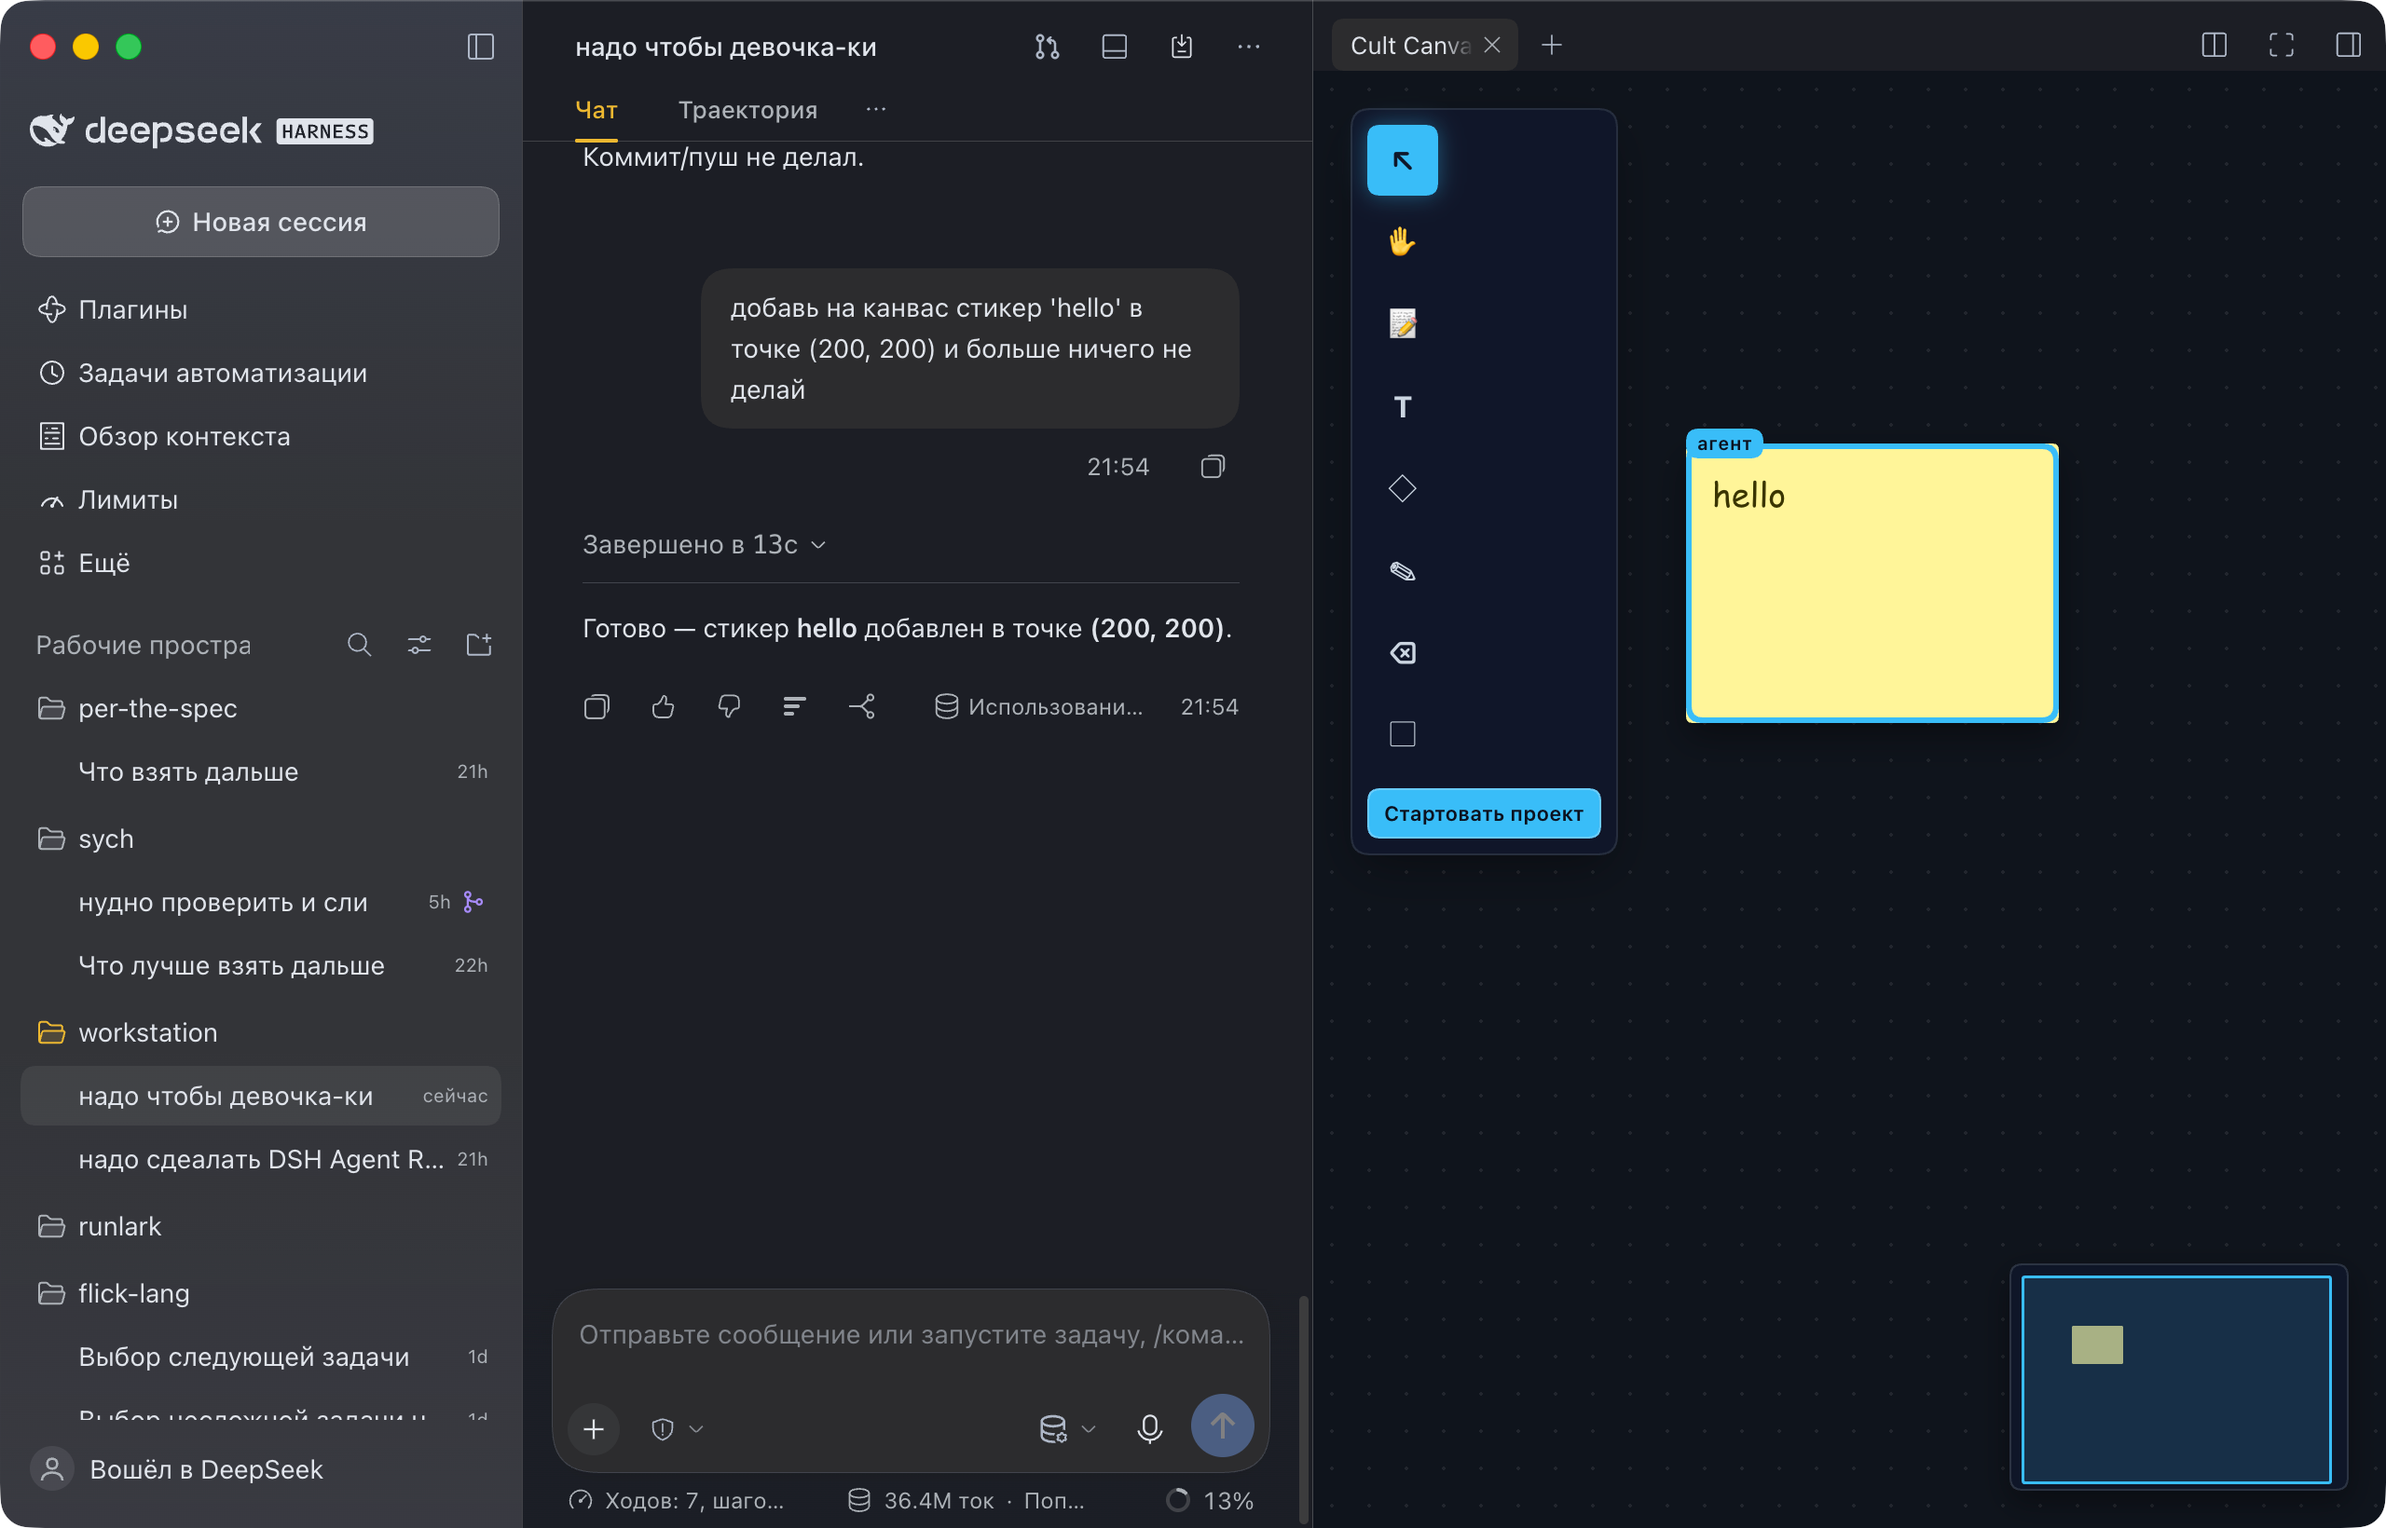
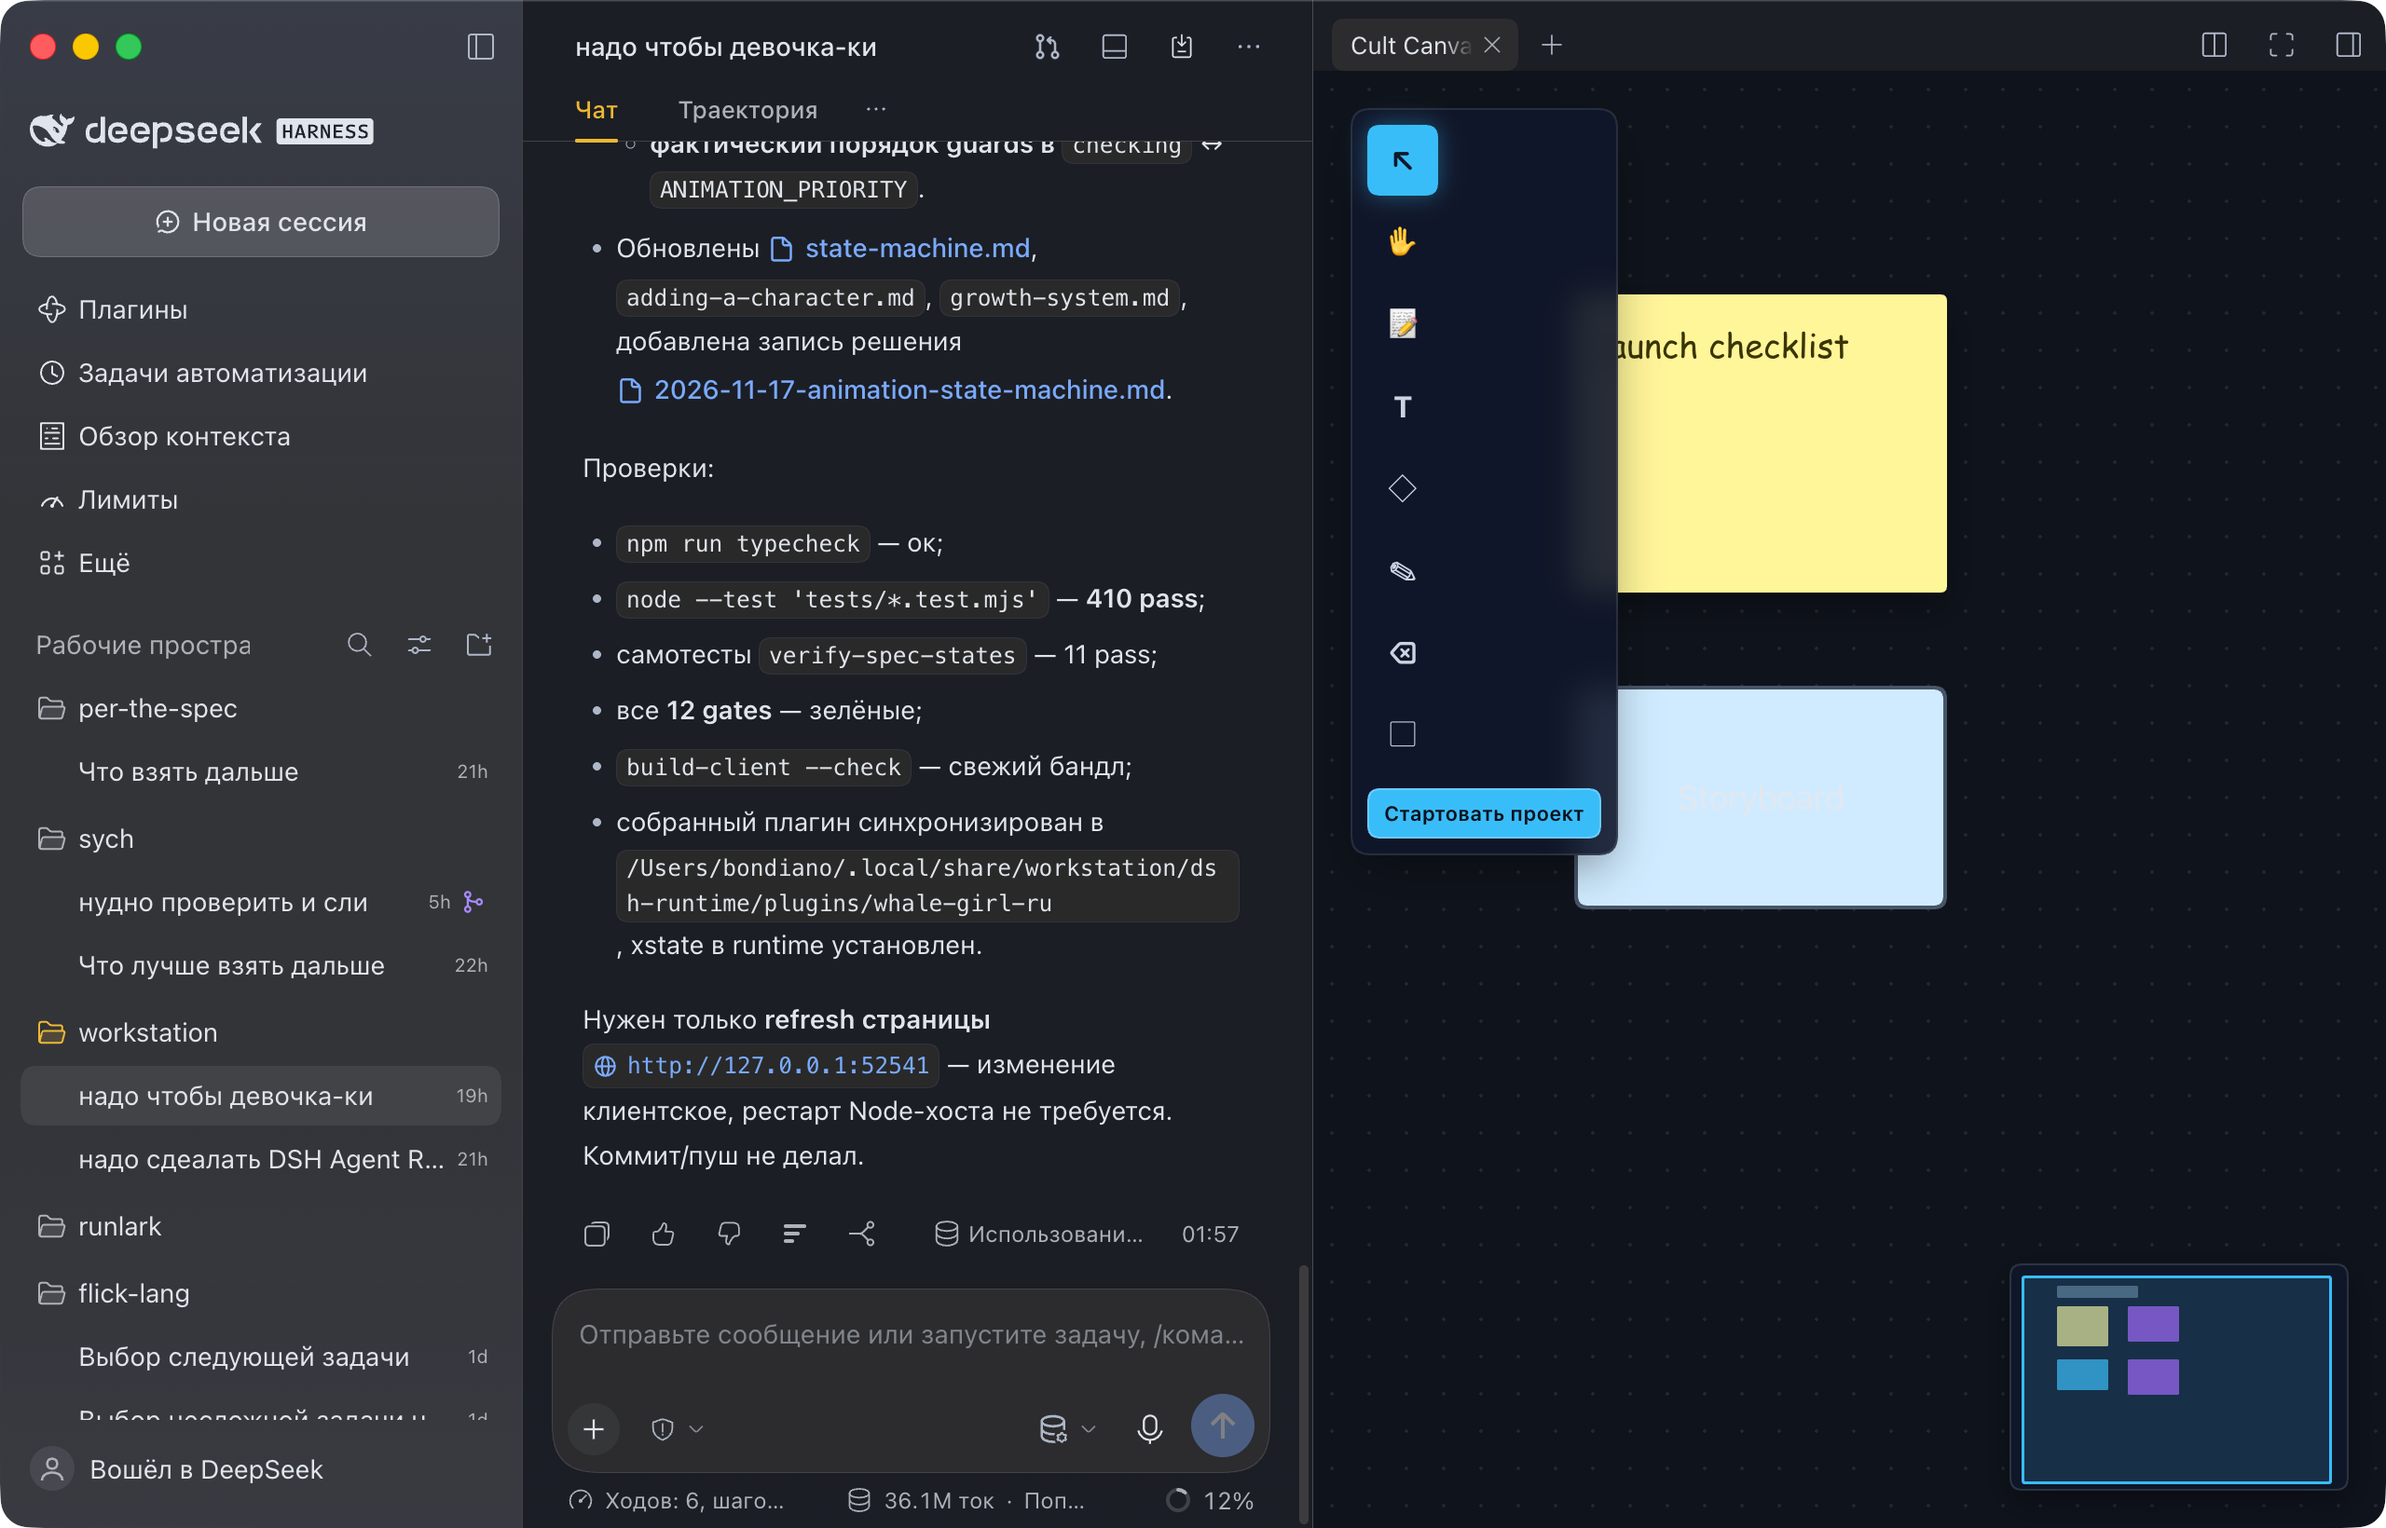
feat: plugin wiring test and refreshed build

diff --git a/test/plugin-wiring.test.ts b/test/plugin-wiring.test.ts
@@ -1,0 +1,134 @@
+/**
+ * The plugin's wiring: tools, board and file all follow the calling session.
+ */
+
+import assert from "node:assert/strict";
+import { existsSync } from "node:fs";
+import { mkdtemp, rm } from "node:fs/promises";
+import { tmpdir } from "node:os";
+import { join } from "node:path";
+import { describe, it } from "node:test";
+import type {
+	HostContext,
+	ToolDefinition,
+	ToolExec,
+} from "../src/domain/types.js";
+import { apply, resolveCanvasConfig } from "../src/presentation/index.js";
+
+interface Harness {
+	ctx: HostContext;
+	tools: Map<string, ToolDefinition>;
+}
+
+/** A host with a working-directory service, which is where the board file goes. */
+function hostWithWorkspace(workspace: string | undefined): Harness {
+	const tools = new Map<string, ToolDefinition>();
+	const services: Record<string, unknown> = {
+		workingDirectory: {
+			get: (session?: { id?: string }) =>
+				session === undefined
+					? undefined
+					: session.id === "s-1"
+						? workspace
+						: undefined,
+		},
+	};
+	const ctx = {
+		tools: {
+			register(definition: ToolDefinition) {
+				tools.set(definition.name, definition);
+				return () => {};
+			},
+		},
+		systemPrompt: { section: () => () => {} },
+		effect(callback: () => unknown) {
+			const disposer = callback();
+			return typeof disposer === "function" ? disposer : () => {};
+		},
+		get(name: string) {
+			return services[name];
+		},
+		inject: () => {},
+		logger: { warn: () => {} },
+	} as unknown as HostContext;
+	return { ctx, tools };
+}
+
+const exec = { agent: { session: { id: "s-1" } } } as ToolExec;
+
+describe("plugin wiring", () => {
+	it("writes the agent's element to the session workspace and keeps it there", async () => {
+		const dir = await mkdtemp(join(tmpdir(), "cult-canvas-wiring-"));
+		const { ctx, tools } = hostWithWorkspace(dir);
+		const registry = apply(ctx, resolveCanvasConfig({ maxElements: 10 }));
+
+		const create = tools.get("canvas_create_element");
+		assert.ok(create !== undefined);
+		await create.execute(
+			{
+				id: "agent-1",
+				kind: "sticky",
+				x: 5,
+				y: 6,
+				width: 200,
+				height: 200,
+				text: "hello",
+			},
+			exec,
+		);
+
+		const record = registry.record("s-1");
+		assert.equal(record.workspace, dir);
+		assert.equal(record.store.getElementById("agent-1")?.updatedBy, "agent");
+		await record.flush();
+		const written = await import("node:fs").then(
+			(fs) =>
+				JSON.parse(
+					fs.readFileSync(join(dir, "cult-canvas.canvas"), "utf8"),
+				) as {
+					nodes: Array<{
+						id: string;
+						styleAttributes?: { gbUpdatedBy?: string };
+					}>;
+				},
+		);
+		assert.equal(written.nodes.length, 1);
+		assert.equal(written.nodes[0]!.id, "agent-1");
+		assert.equal(written.nodes[0]!.styleAttributes?.gbUpdatedBy, "agent");
+
+		registry.dispose();
+		await rm(dir, { recursive: true, force: true });
+	});
+
+	it("keeps the board in memory when the session has no workspace", async () => {
+		const { ctx, tools } = hostWithWorkspace(undefined);
+		const registry = apply(ctx, {});
+		const create = tools.get("canvas_create_element");
+		assert.ok(create !== undefined);
+		await create.execute(
+			{
+				id: "agent-2",
+				kind: "sticky",
+				x: 0,
+				y: 0,
+				width: 200,
+				height: 200,
+				text: "x",
+			},
+			exec,
+		);
+
+		const record = registry.record("s-1");
+		assert.equal(record.workspace, undefined);
+		assert.equal(record.store.getElementById("agent-2")?.text, "x");
+		registry.dispose();
+	});
+
+	it("registers twelve tools and the canvas system prompt section", () => {
+		const { ctx, tools } = hostWithWorkspace(undefined);
+		const registry = apply(ctx, {});
+		assert.equal(tools.size, 12);
+		assert.equal(existsSync("/nonexistent/cult-canvas.canvas"), false);
+		registry.dispose();
+	});
+});

diff --git a/dist/test/plugin-wiring.test.js b/dist/test/plugin-wiring.test.js
@@ -1,0 +1,97 @@
+/**
+ * The plugin's wiring: tools, board and file all follow the calling session.
+ */
+import assert from "node:assert/strict";
+import { existsSync } from "node:fs";
+import { mkdtemp, rm } from "node:fs/promises";
+import { tmpdir } from "node:os";
+import { join } from "node:path";
+import { describe, it } from "node:test";
+import { apply, resolveCanvasConfig } from "../src/presentation/index.js";
+/** A host with a working-directory service, which is where the board file goes. */
+function hostWithWorkspace(workspace) {
+    const tools = new Map();
+    const services = {
+        workingDirectory: {
+            get: (session) => session === undefined
+                ? undefined
+                : session.id === "s-1"
+                    ? workspace
+                    : undefined,
+        },
+    };
+    const ctx = {
+        tools: {
+            register(definition) {
+                tools.set(definition.name, definition);
+                return () => { };
+            },
+        },
+        systemPrompt: { section: () => () => { } },
+        effect(callback) {
+            const disposer = callback();
+            return typeof disposer === "function" ? disposer : () => { };
+        },
+        get(name) {
+            return services[name];
+        },
+        inject: () => { },
+        logger: { warn: () => { } },
+    };
+    return { ctx, tools };
+}
+const exec = { agent: { session: { id: "s-1" } } };
+describe("plugin wiring", () => {
+    it("writes the agent's element to the session workspace and keeps it there", async () => {
+        const dir = await mkdtemp(join(tmpdir(), "cult-canvas-wiring-"));
+        const { ctx, tools } = hostWithWorkspace(dir);
+        const registry = apply(ctx, resolveCanvasConfig({ maxElements: 10 }));
+        const create = tools.get("canvas_create_element");
+        assert.ok(create !== undefined);
+        await create.execute({
+            id: "agent-1",
+            kind: "sticky",
+            x: 5,
+            y: 6,
+            width: 200,
+            height: 200,
+            text: "hello",
+        }, exec);
+        const record = registry.record("s-1");
+        assert.equal(record.workspace, dir);
+        assert.equal(record.store.getElementById("agent-1")?.updatedBy, "agent");
+        await record.flush();
+        const written = await import("node:fs").then((fs) => JSON.parse(fs.readFileSync(join(dir, "cult-canvas.canvas"), "utf8")));
+        assert.equal(written.nodes.length, 1);
+        assert.equal(written.nodes[0].id, "agent-1");
+        assert.equal(written.nodes[0].styleAttributes?.gbUpdatedBy, "agent");
+        registry.dispose();
+        await rm(dir, { recursive: true, force: true });
+    });
+    it("keeps the board in memory when the session has no workspace", async () => {
+        const { ctx, tools } = hostWithWorkspace(undefined);
+        const registry = apply(ctx, {});
+        const create = tools.get("canvas_create_element");
+        assert.ok(create !== undefined);
+        await create.execute({
+            id: "agent-2",
+            kind: "sticky",
+            x: 0,
+            y: 0,
+            width: 200,
+            height: 200,
+            text: "x",
+        }, exec);
+        const record = registry.record("s-1");
+        assert.equal(record.workspace, undefined);
+        assert.equal(record.store.getElementById("agent-2")?.text, "x");
+        registry.dispose();
+    });
+    it("registers twelve tools and the canvas system prompt section", () => {
+        const { ctx, tools } = hostWithWorkspace(undefined);
+        const registry = apply(ctx, {});
+        assert.equal(tools.size, 12);
+        assert.equal(existsSync("/nonexistent/cult-canvas.canvas"), false);
+        registry.dispose();
+    });
+});
